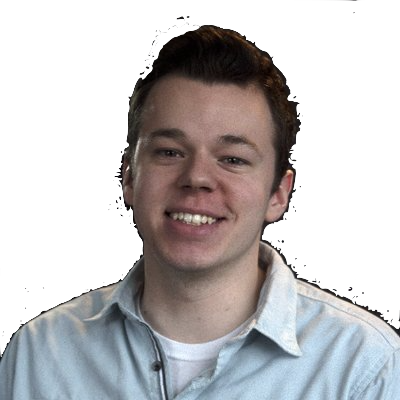
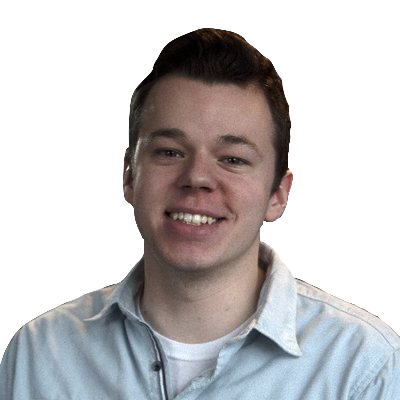
testimonials: pix edit

diff --git a/style.css b/style.css
@@ -158,14 +158,14 @@ p.centerFeatureText {
 
 div#jessePhoto > img {
   width: 44%;
-  border-radius: 50%;
+  /* border-radius: 1.5%; */
 
-  border: 0.203rem solid black;
-  background-color: black;
+  /* border: 0.203rem solid black;
+  background-color: white;
   box-shadow: 0 0.25rem 0.5rem 0 rgba(0, 0, 0, 0.2),
     0 0.375rem 1.25rem 0 rgba(0, 0, 0, 0.19),
     0 0.25rem 0.5rem 0 rgba(0, 0, 0, 0.2),
-    0 0.375rem 1.25rem 0 rgba(0, 0, 0, 0.19);
+    0 0.375rem 1.25rem 0 rgba(0, 0, 0, 0.19); */
 
   margin-top: 2.75rem;
   display: block;
@@ -175,17 +175,17 @@ div#jessePhoto > img {
 
 div#alannaPhoto > img {
   width: 34%;
-  border-radius: 50%;
+  /* border-radius: 50%;
 
   border: 0.203rem solid black;
   background-color: black;
   box-shadow: 0 0.25rem 0.5rem 0 rgba(0, 0, 0, 0.2),
     0 0.375rem 1.25rem 0 rgba(0, 0, 0, 0.19),
     0 0.25rem 0.5rem 0 rgba(0, 0, 0, 0.2),
-    0 0.375rem 1.25rem 0 rgba(0, 0, 0, 0.19);
+    0 0.375rem 1.25rem 0 rgba(0, 0, 0, 0.19); */
 
-  margin-top: 2.75rem;
-  margin-bottom: 0.938rem;
+  margin-top: 3rem;
+  margin-bottom: 0.538rem;
   display: block;
   margin-left: auto;
   margin-right: auto;
